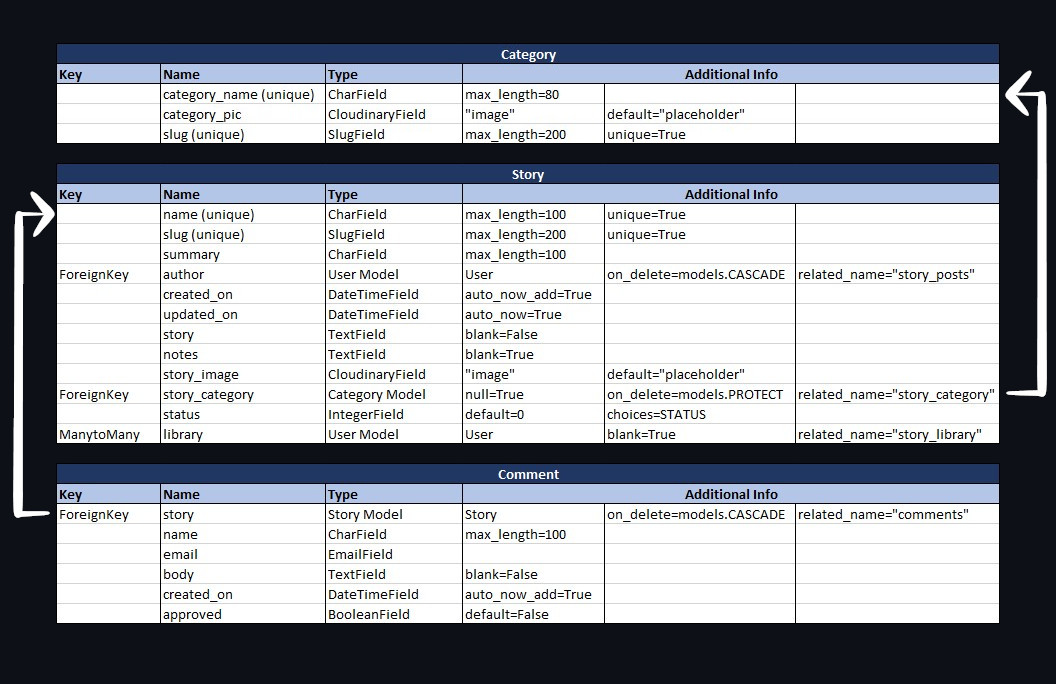
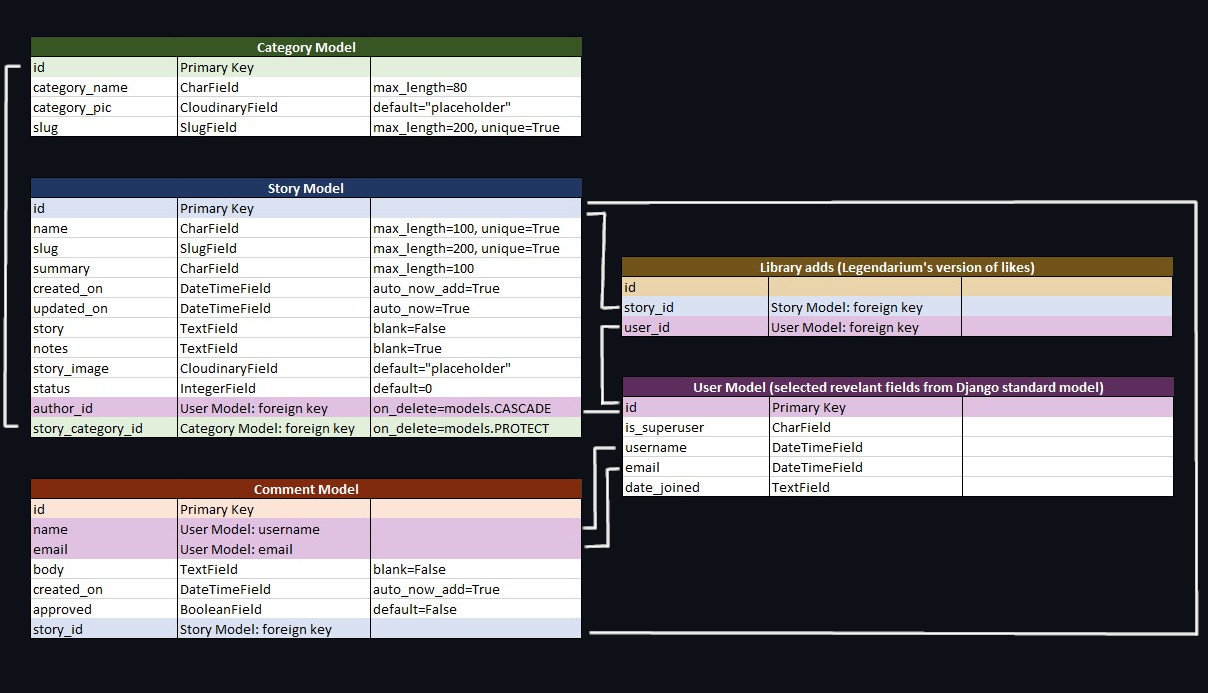
Update wireframe and data model info in readme

diff --git a/README.md b/README.md
@@ -48,13 +48,13 @@ Legendarium is an online story database for characters, places, objects, or anyt
 In terms of visuals and data, Legendarium is inspired by the Code Institute "I Think Therefore I Blog" Codestar walkthrough project.  Following the lessons in that walkthrough to gain understanding of the underlying principles, I made informed choices about where to retain elements, where to make partial changes, and where to add new styling and models.
 
 ## Wireframes
-Legendarium was originally imagined as a database for RPG character backstories.  Its initial wireframes reflect this vision, as does the name of its "chargen" app.  However, as development continued, it was reimagined as a database for stories of all kinds.  
+Legendarium was originally imagined as a database for RPG character backstories.  Its initial wireframes reflect this vision, as does the name of its "chargen" app.  However, as development continued, it was reimagined as a database for stories of all kinds.   Further, the eventual site moved away from the initially planned large quantity of text on the index page, in favour of a more intuitive, image-centred approach.
 
 ![Mobile wireframe.](/static/images/mobile_wireframe.png)
 ![Desktop wireframe.](/static/images/desktop_wireframe.png)
 
 ## Data Models
-The comment model follows the Codestar walkthrough.  The Story model is adapted from the walkthrough's Post model, to include new elements such as an optional "notes" field and categories in which stories can be placed.  As "post" is a method as well as a model in the Codestar walkthrough, care had to be taken to adapt only the appropriate content.  An original Category model is added to facilitate the categorization of stories.  While categories could have been added as a choice field in the Story model, a separate Category model allows admins to CRUD categories via the admin panel, without having to change any code.  Category images are not in use in the live site at present, but their functionality exists to facilitate future development in which stories could be filtered by category.  Associating each category with an image would make this task more pleasing at the UI level.
+The Comment model follows the Codestar walkthrough.  The Story model is adapted from the walkthrough's Post model, to include new elements such as an optional "notes" field and categories in which stories can be placed.  An original Category model is added to facilitate the categorization of stories.  While categories could have been added as a choice field in the Story model, a separate Category model allows admins to create, update, and delete categories without having to change any code.  
 
 ![Data model diagram.](/static/images/data_model_diagram.jpg)
 
